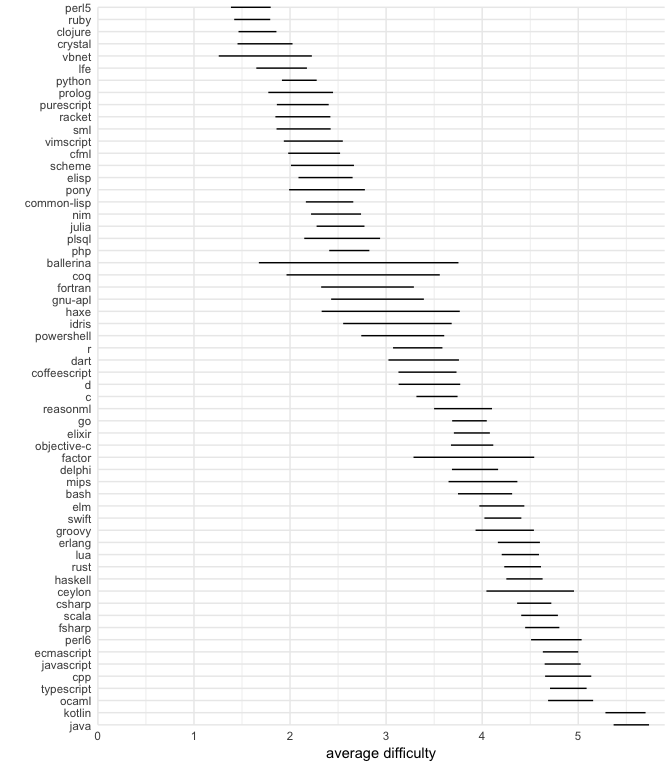
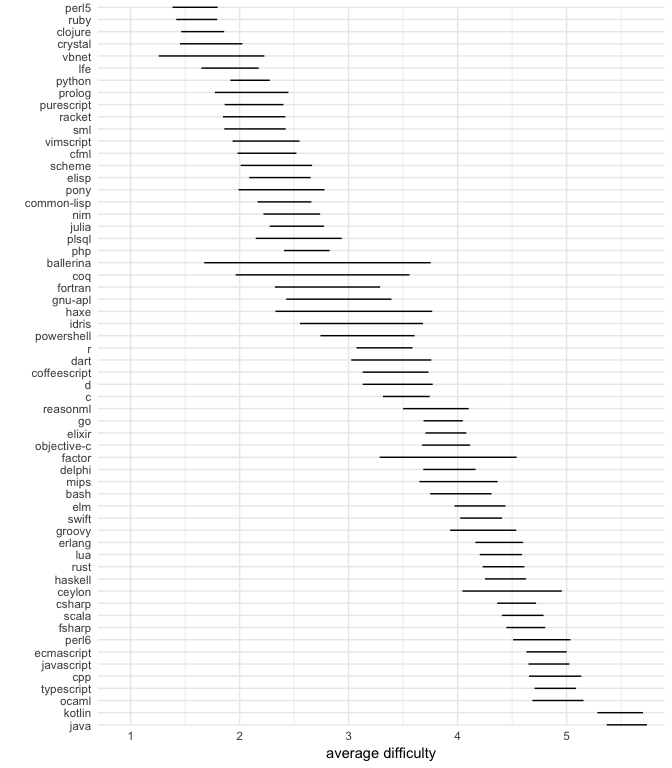
Separate core exercises

diff --git a/docs/exercism-problems.md b/docs/exercism-problems.md
@@ -3,6 +3,21 @@ Analysis of Exercism.io problems
 
 # Number of test cases
 
+The problems or “exercises” on Exercism.io are scored via automated
+tests. These tests often involve providing the solution program with
+input and comparing the output to what was expected. These **test
+cases** can be scored in all languages. Each problem has a different
+number of test cases, and the distribution of problem sizes is shown
+below. The existence of problems with zero test cases could mean that
+the problem is still being developed. But most problems have more tests
+than test cases, because many problems specify certain behavioral
+requirements (e.g., returning an object of a particular type) that must
+be manually translated into tests in each language.
+
+**Core exercises** are implemented in all 10 most popular languages
+according to
+StackOverflow.
+
 ![](exercism-problems_files/figure-gfm/n-test-cases-dotplot-1.png)<!-- -->
 
 ![](exercism-problems_files/figure-gfm/n-test-cases-dotplot-labeled-1.png)<!-- -->
@@ -37,58 +52,19 @@ lang_difficulty_mod <- lme4::lmer(difficulty ~ -1 + language + (1|exercise),
 
 ![](exercism-problems_files/figure-gfm/ranking-1.png)<!-- -->
 
-## Looking only at the core exercises implemented in the most popular languages
+## Core exercises
 
-``` r
-# Select problems with implementations in all languages
-n_languages <- length(unique(exercises$language))
-problems_in_all_languages <- count(exercises, exercise) %>%
-  filter(n == n_languages)
-# No problems in all languages!
-
-# Select problems with implementations in the 10 most popular languages according to StackOverflow
-exercism_languages <- unique(exercises$language)
-data("stack_overflow_ranks", package = "programmingquestionnaire")
-top_10_languages <- stack_overflow_ranks %>%
-  filter(language_name %in% exercism_languages) %>%
-  top_n(10) %>%
-  .$language_name
-exercises_in_all_top_10_languages <- exercises %>%
-  group_by(exercise) %>%
-  summarize(core = all(top_10_languages %in% language)) %>%
-  filter(core) %>%
-  .$exercise
-core_exercises <- filter(exercises, language %in% top_10_languages, exercise %in% exercises_in_all_top_10_languages)
-
-core_lang_difficulty_mod <- lme4::lmer(difficulty ~ -1 + language + (1|exercise),
-                                       data = core_exercises)
-
-core_lang_difficulty_preds <- broom::tidy(core_lang_difficulty_mod, effects = "fixed") %>%
-  rename(language = term) %>%
-  mutate(language = str_replace(language, "^language", ""))
-
-ggplot(core_lang_difficulty_preds) +
-  aes(fct_reorder(language, estimate, .desc = TRUE), estimate) +
-  geom_linerange(aes(ymin = estimate - std.error, ymax = estimate + std.error)) +
-  coord_flip(ylim = c(0, 5.9), expand = FALSE, clip = "off") +
-  labs(x = "", y = "average difficulty")
-```
+How do the top 10 most popular languages compare in self-assigned
+difficulty on the core exercises?
 
 ![](exercism-problems_files/figure-gfm/ranking-core-1.png)<!-- -->
 
-``` r
-mod_comparison <- left_join(core_lang_difficulty_preds[,c("language", "estimate")],
-          lang_difficulty_preds[,c("language", "estimate")],
-          by = "language", suffix = c("_core", "_overall"))
-ggplot(mod_comparison) +
-  aes(estimate_core, estimate_overall, label = language) +
-  geom_text(check_overlap = TRUE) +
-  geom_abline(intercept = 0, slope = 1, linetype = "dashed") +
-  labs(x = "estimated difficulty across core problems",
-       y = "estimated difficulty across all problems") +
-  coord_equal(xlim = c(1, 6), ylim = c(1, 6)) +
-  scale_x_continuous(breaks = 1:6) +
-  scale_y_continuous(breaks = 1:6)
-```
+Are the core exercises really so easy in ruby and python compared to
+java and typescript? One potential confound is that the core exercises
+might simply be easier overall, in which case we might conclude that
+ruby and python are good for easy problems. One way to show how
+difficulty on the core problems correlates with overall difficulty is to
+compare the model estimates from the full model to the core-only
+model.
 
-![](exercism-problems_files/figure-gfm/ranking-core-2.png)<!-- -->
+![](exercism-problems_files/figure-gfm/mod-estimate-correlations-1.png)<!-- -->
